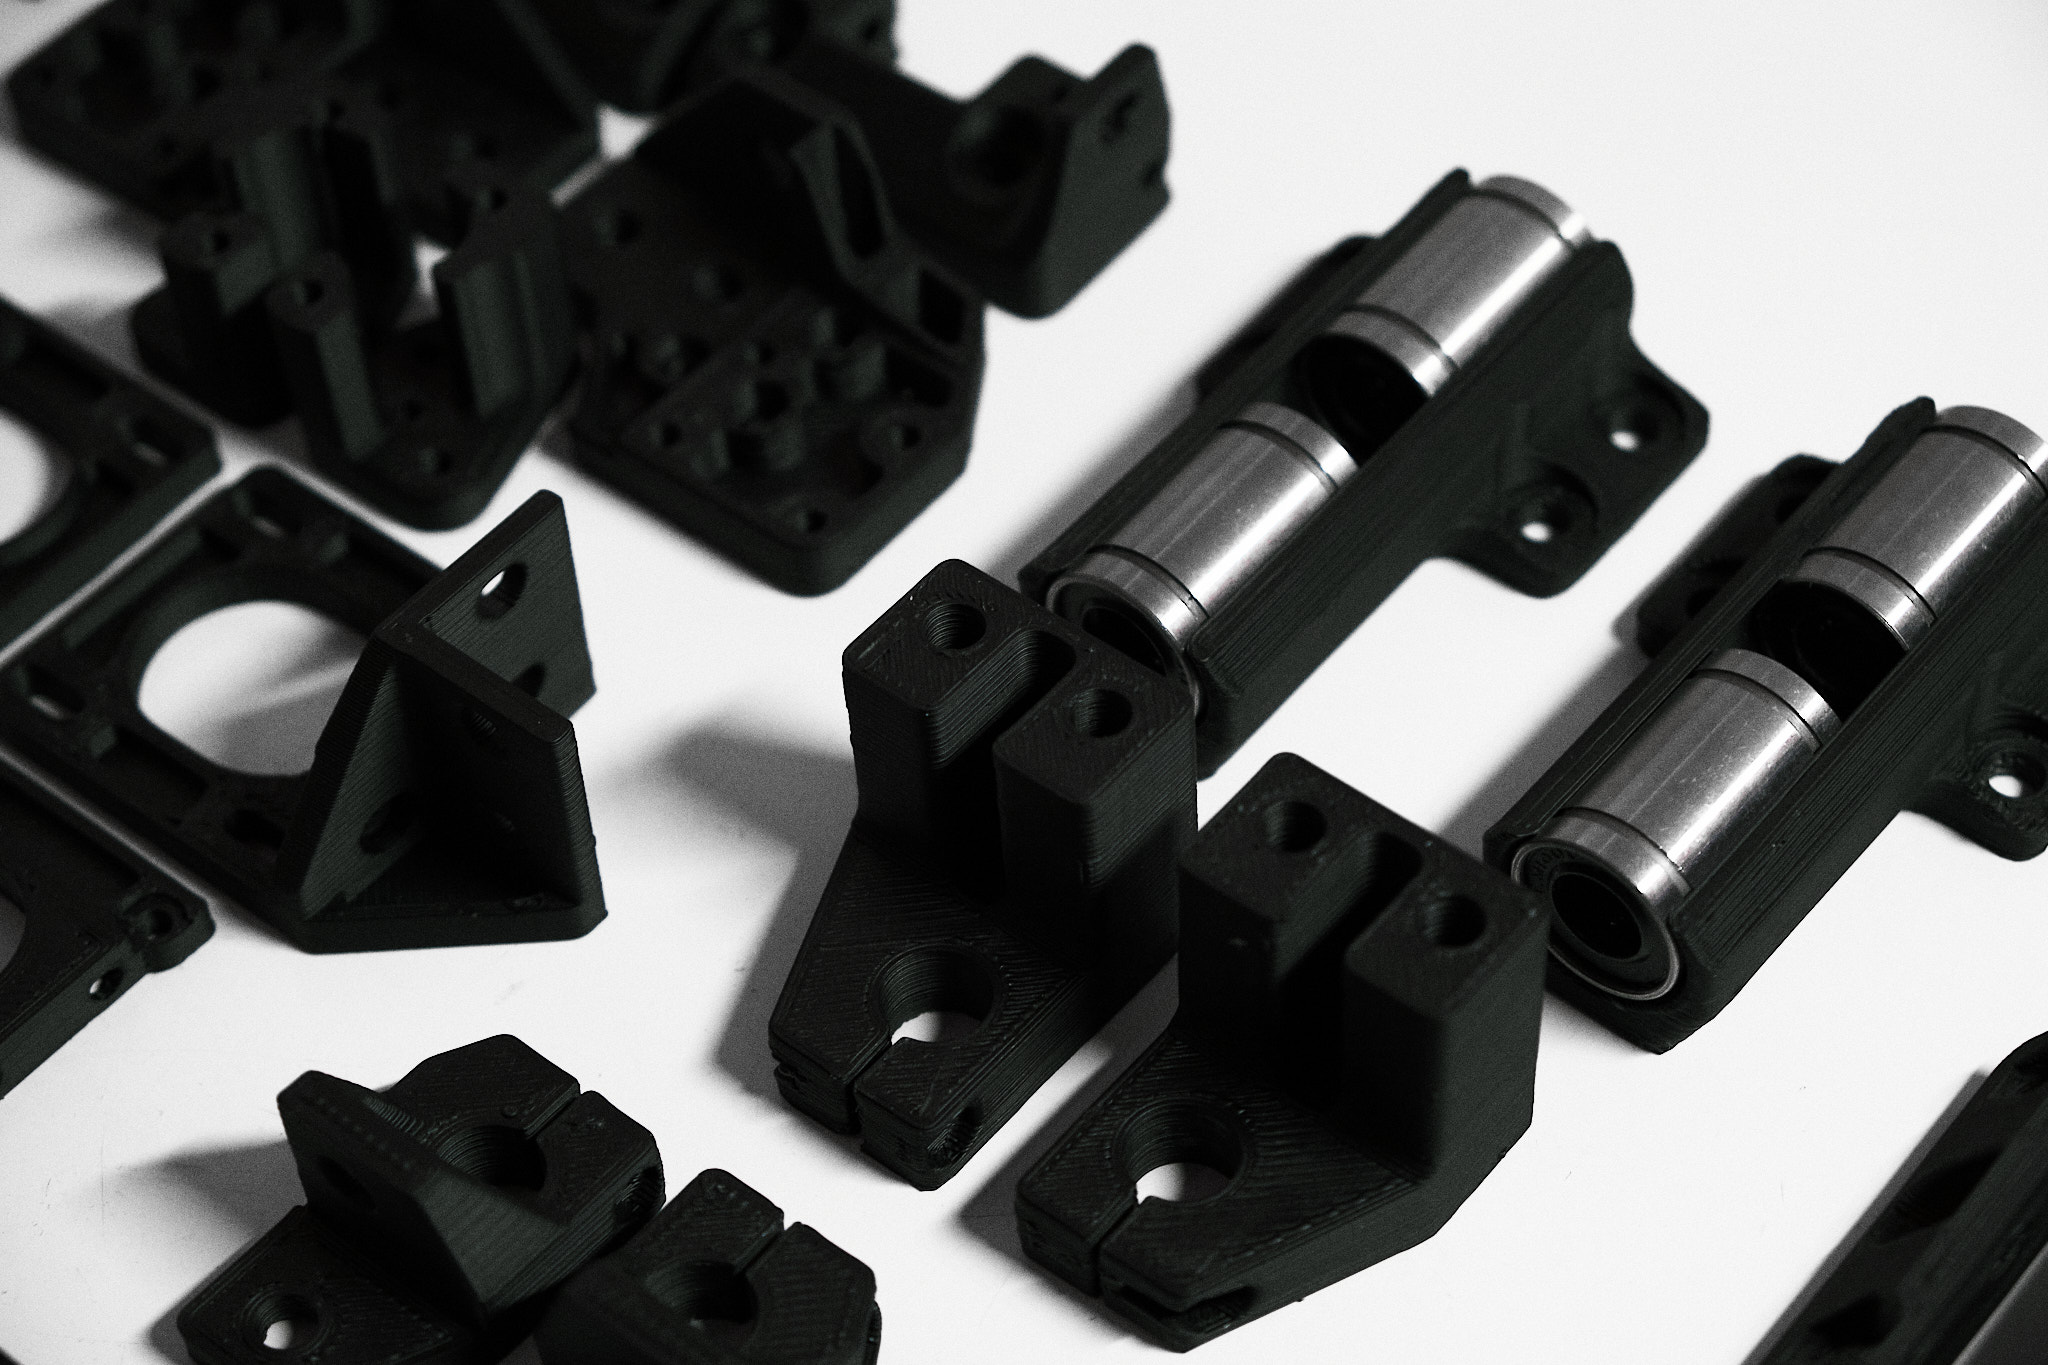
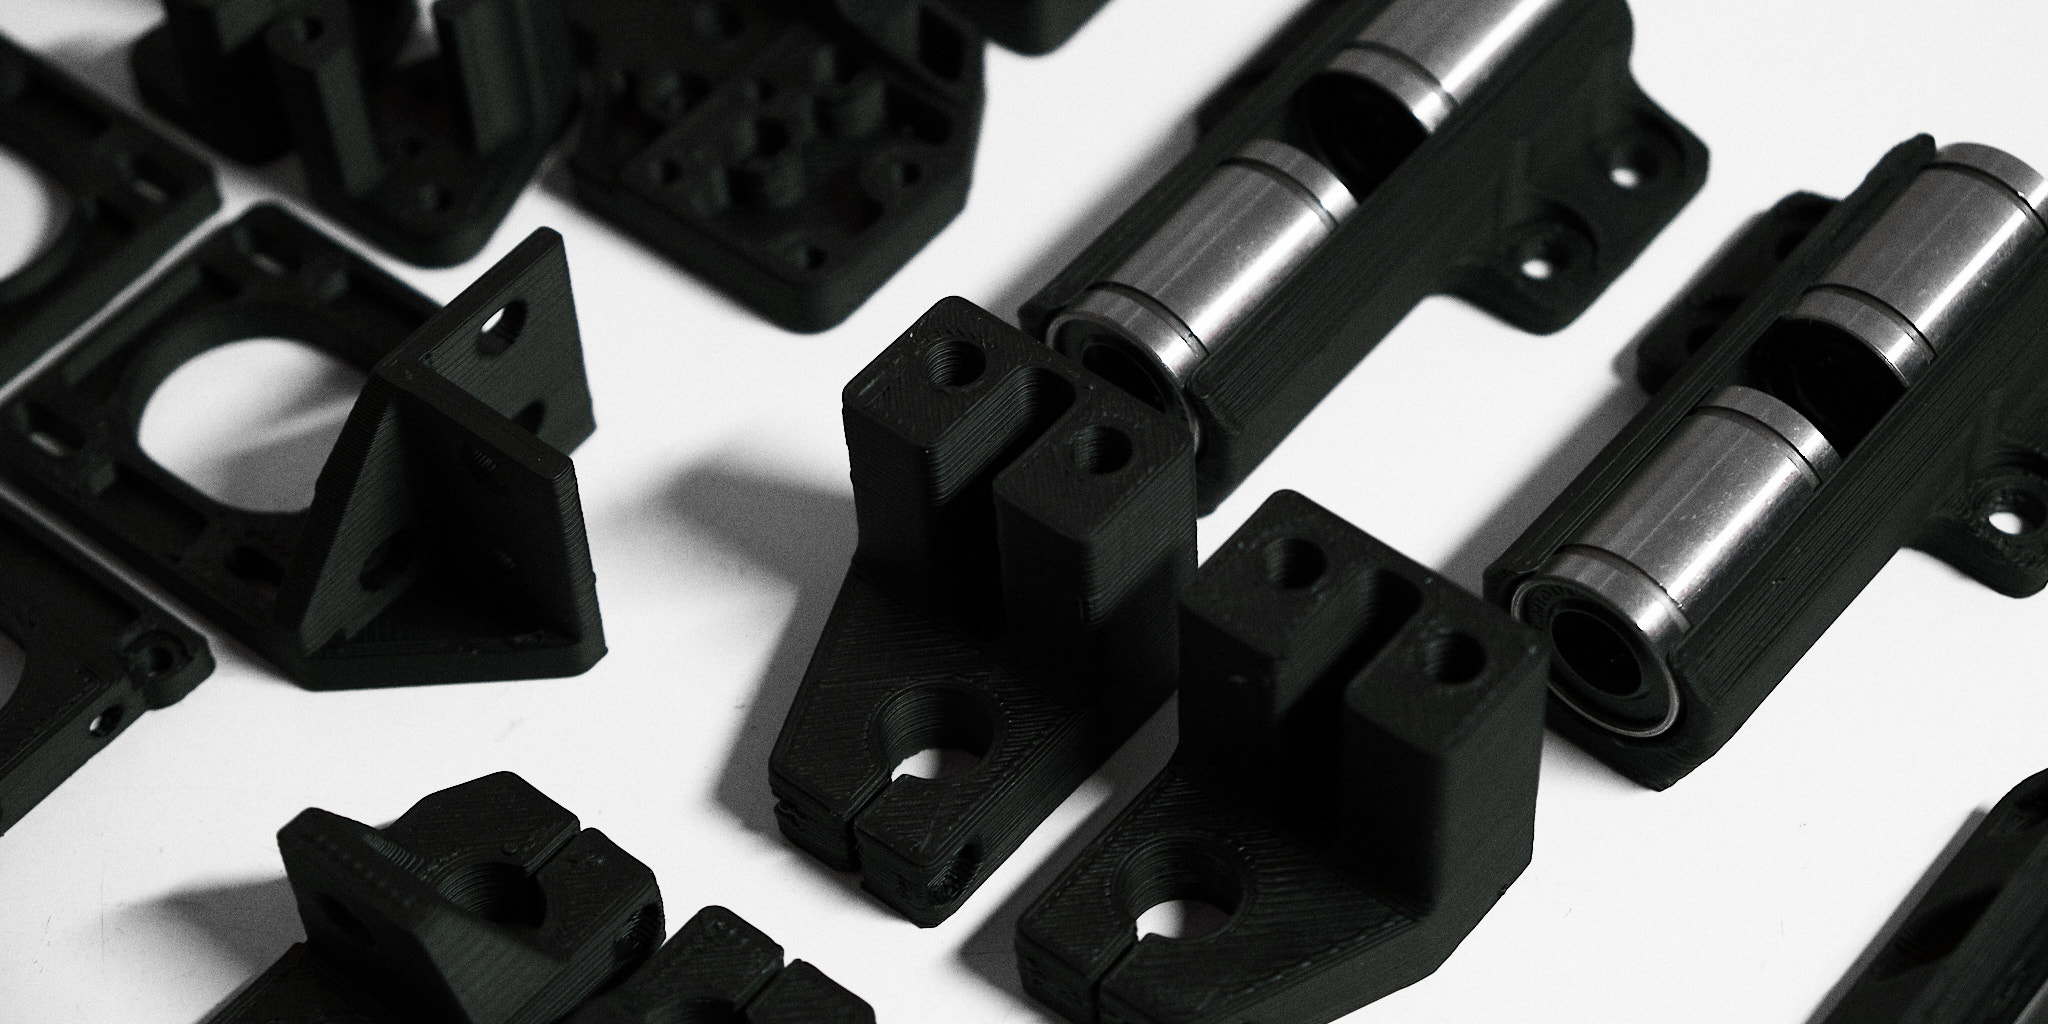
update readme, add a bunch of pictures

diff --git a/README.md b/README.md
@@ -1,21 +1,43 @@
 # smallXY
-Experimental compact CoreXY 3D printer with linear rails
 
-## Mechanical Design
-![](img/DSCF6911.jpg)
-![](img/DSCF6912.jpg)
+![](img/DSCF6990.jpg)
+![](img/DSCF6978.jpg)
 
+## Specifications
+* Build volume: 200x160x100mm
+* Frame: 330x300x300mm
+* Weight: ~8kg
+* Very rigid 2020 aluminum extrusion frame
+* Capable of 150mm/s+ print speeds and 6000mm/s²+ acceleration
+* 12mm linear rails on X and Y axes
+* Leadscrew-driven Z axis with 10mm round linear shafts
+* Simple mechanical design and clean cable management
+* E3D V6 hotend with 1.75mm bowden setup
+* MK3 aluminum heated bed with PEI print surface
+* Compatible with a wide variety of control electronics
+* Mean Well 350 watt power supply
+
+## CoreXY Motion System
+![](img/beltrouting.png)
+smallXY uses the simplest possible CoreXY motion system with no crossed belt paths, stationary motors, and no unnecessary idler pulleys. Idlers are constructed from pairs of FR623ZZ ball bearings for the best balance of cost to performance. Belt tensioning is integrated into the motor mounts so that the belts can be easily tensioned by turning screws accessible from the front of the printer. The rigid frame, linear rails, and a lightweight X-axis and toolhead allow high speed and very fast accelerations (at least 6000mm/s²).
+![](img/motortensioner.png)
+
+## Toolhead
+![](img/DSCF6974.jpg)
+The toolhead fits an E3D V6 hotend, powerful 40x40x20mm part cooling fan, and inductive probe into a very compact 46mm wide package weighing less than 100g. The inductive probe is used for Z homing and optionally bed leveling using magnets attached to the underside of the heated bed.
 
 ## Wiring
 ![](img/DSCF6918.jpg)
 Almost all of the printer's wiring is integrated into one fully connectorized harness that attaches to the frame using 3D printed snaps and 3M dual lock.
 
-[] toolhead
+The toolhead is connected with JST SM connectors mounted in a 3D printed part for ease of servicing. The single 12-conductor high flexibility cable is supported by a 3D printed mount to eliminate any strain on the connectors.
 
-The toolhead is connected with JST SM connectors mounted in a 3D printed part for ease of servicing. The single 12-conductor high flexibility cable is supported by a 3D printed bracket to eliminate any strain on the connectors.
-
-## Toolhead
-The toolhead fits an E3D V6 hotend, powerful 40x40x20mm part cooling fan, and inductive probe into a very compact 46mm wide package. The inductive probe is used for Z homing and optionally bed leveling using magnets attached to the underside of the heated bed.
-
-## Design Files
+## Design Files and BOM
 Coming soon.
+
+
+![](img/DSCF6911.jpg)
+![](img/DSCF6912.jpg)
+![](img/DSCF6979.jpg)
+![](img/DSCF6982.jpg)
+![](img/DSCF6981.jpg)
